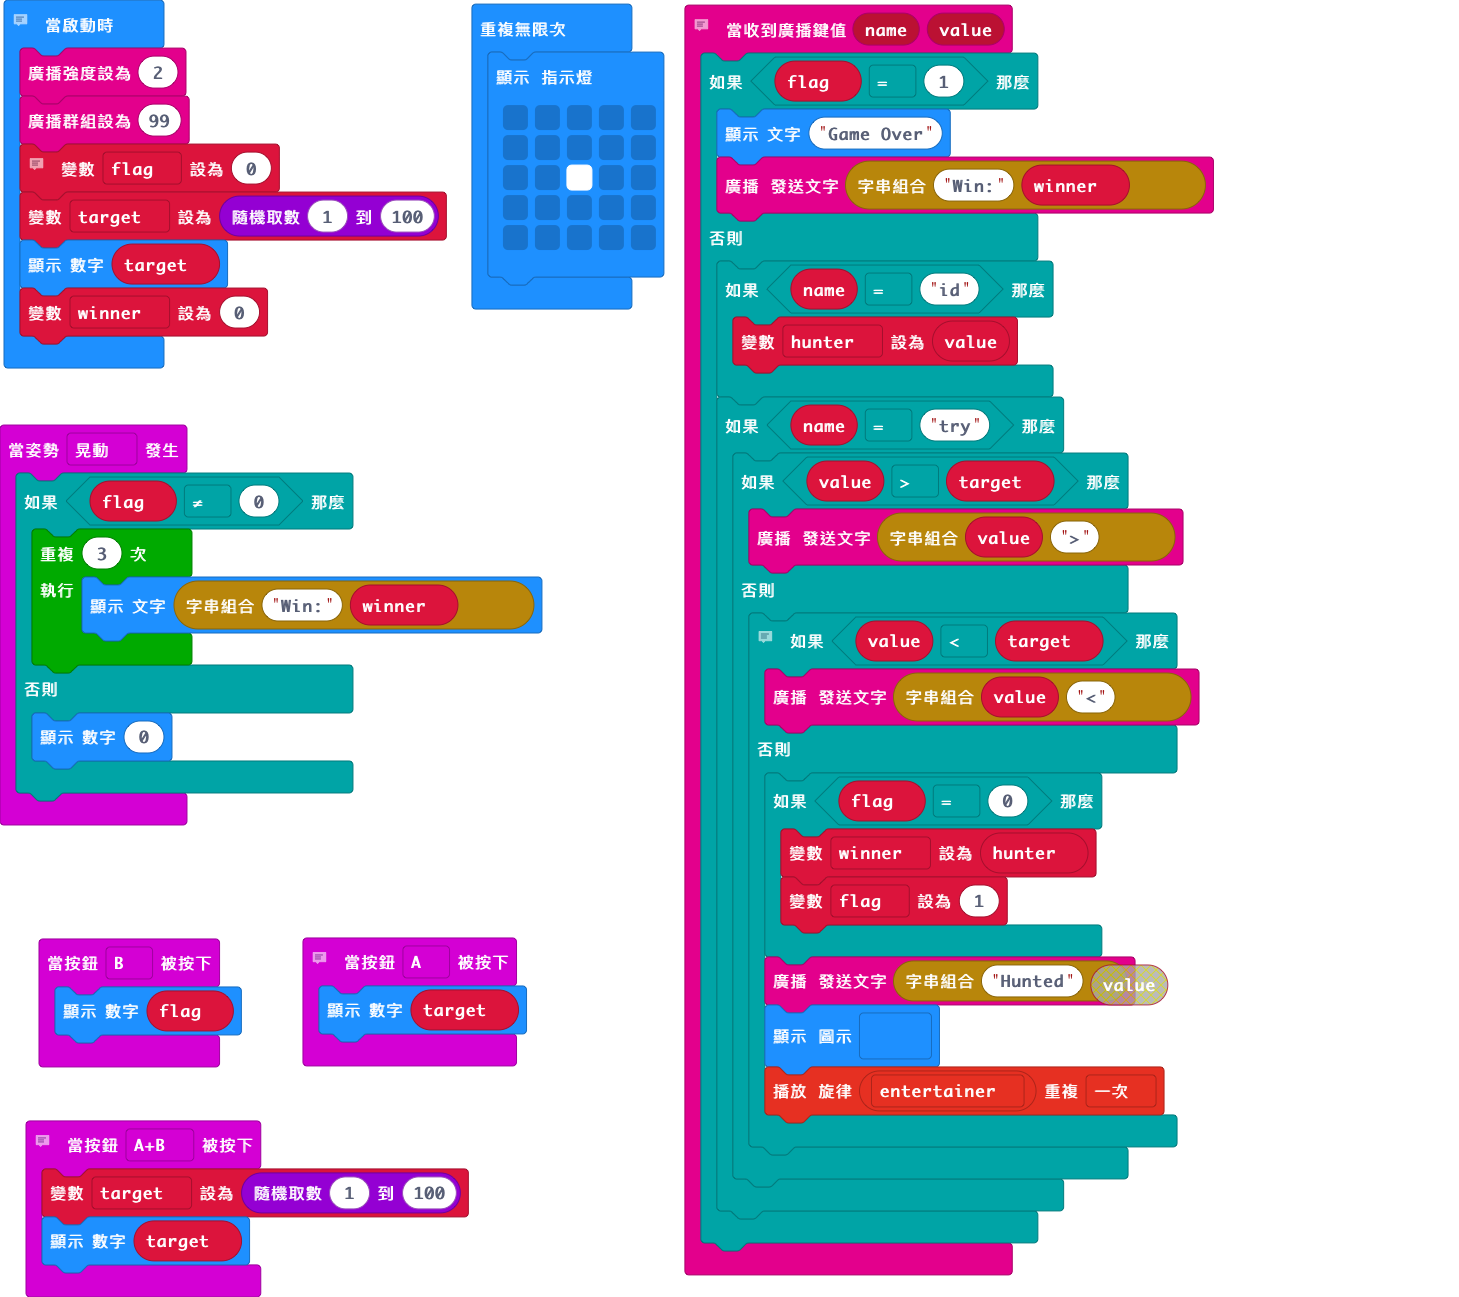
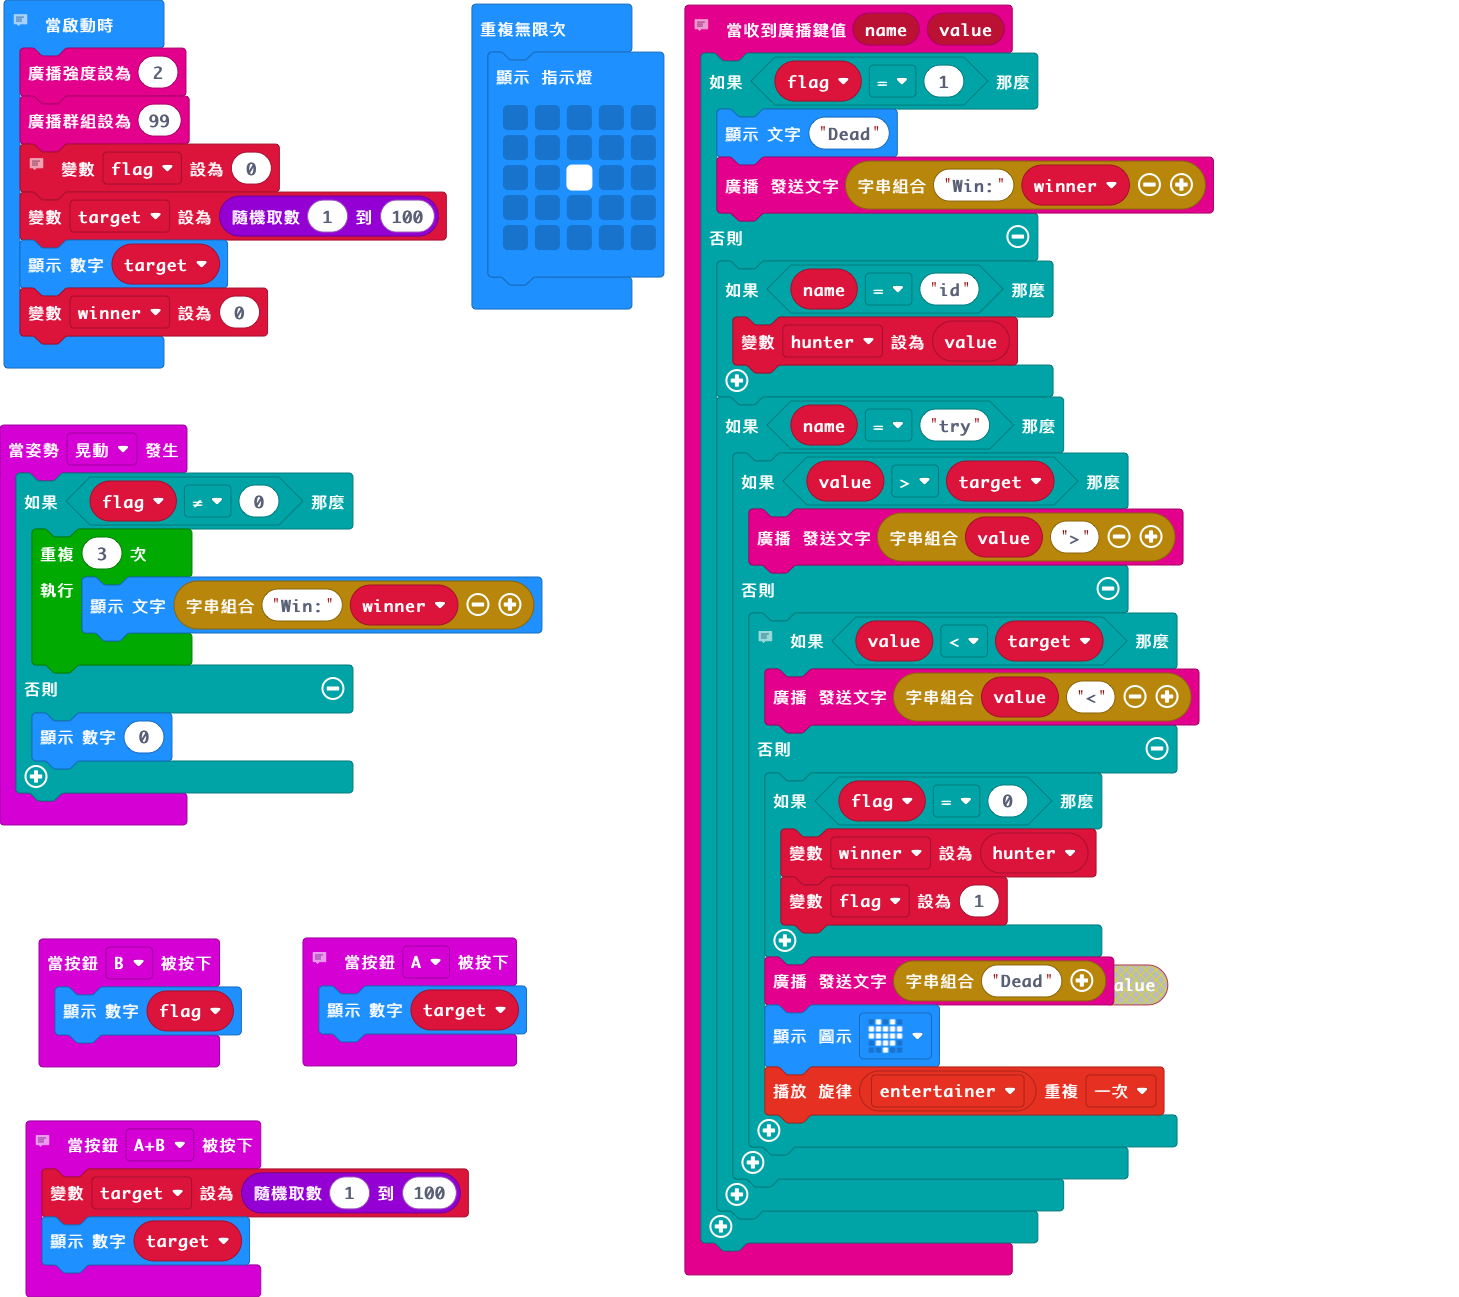
game over

diff --git a/main.ts b/main.ts
@@ -23,7 +23,7 @@ input.onButtonPressed(Button.B, function () {
 // value = try
 radio.onReceivedValue(function (name, value) {
     if (flag == 1) {
-        basic.showString("Game Over")
+        basic.showString("Dead")
         radio.sendString("Win:" + winner)
     } else {
         if (name == "id") {
@@ -42,7 +42,7 @@ radio.onReceivedValue(function (name, value) {
                         winner = hunter
                         flag = 1
                     }
-                    radio.sendString("Hunted")
+                    radio.sendString("Dead")
                     basic.showIcon(IconNames.Heart)
                     music.startMelody(music.builtInMelody(Melodies.Entertainer), MelodyOptions.Once)
                 }
